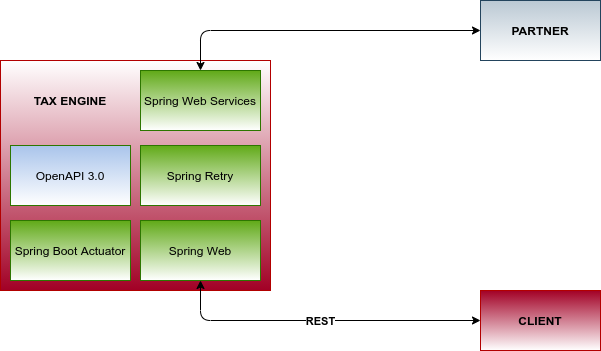
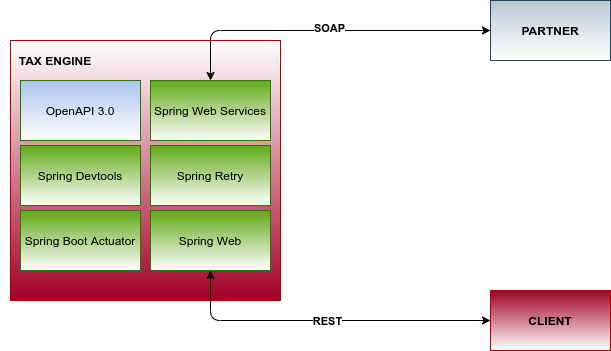
Add devtools

diff --git a/tax-engine/README.md b/tax-engine/README.md
@@ -4,7 +4,10 @@ Simulate how Tax engine work.
 
 This app will convert SOAP to REST.
 
-OpenAPI UI available at : http://localhost:8082/swagger-ui
+OpenAPI Spec available at: http://localhost:8082/v3/api-docs
+
+OpenAPI UI available at : http://localhost:8082/swagger-ui/index.html
+
 Actuator Health check at: http://localhost:8082/actuator/health
 
 ## Reference
@@ -12,6 +15,7 @@ Actuator Health check at: http://localhost:8082/actuator/health
 - [Consuming a SOAP web service](https://spring.io/guides/gs/consuming-web-service/)
 - [Building a RESTful Web Service](https://spring.io/guides/gs/rest-service/)
 - [Documenting a Spring REST API Using OpenAPI 3.0](https://www.baeldung.com/spring-rest-openapi-documentation)
+- [Spring Boot Reference Guide: Developer Tools](https://docs.spring.io/spring-boot/docs/2.1.5.RELEASE/reference/html/using-boot-devtools.html)
 
 ### Disclaimer
 
